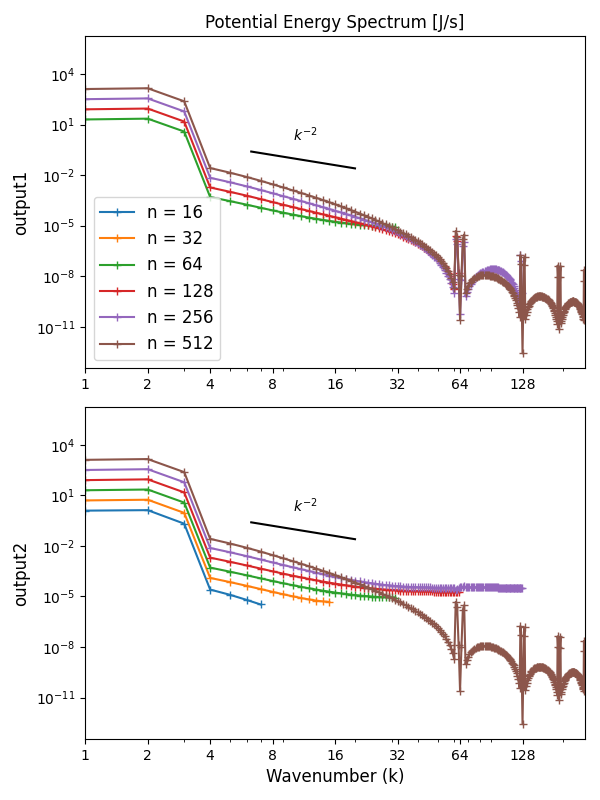
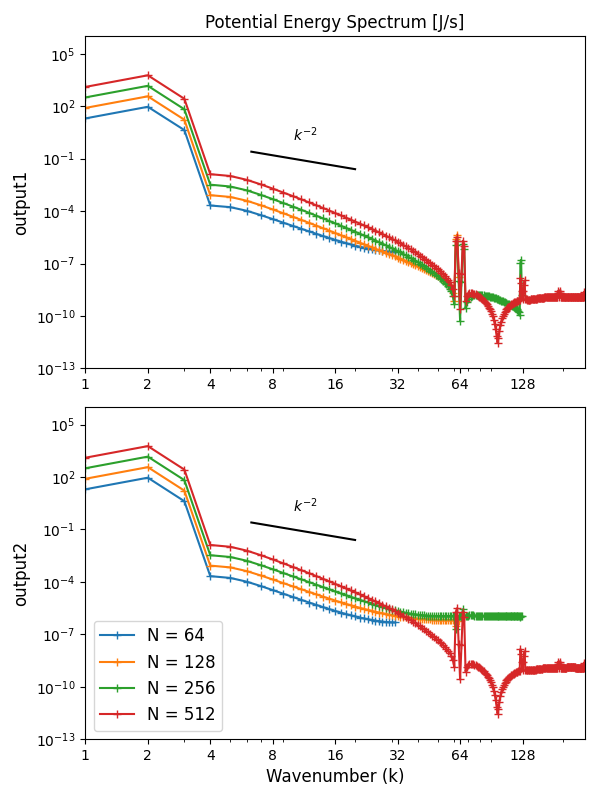
JpGU slide ver.1

diff --git a/Stochastic/plot_tool/spectr.py b/Stochastic/plot_tool/spectr.py
@@ -2,7 +2,9 @@ import numpy as np
 import matplotlib.pyplot as plt
 import glob
 
-files = sorted(glob.glob('../output/fmgz*.dat'))
+dilectname = '../out_stoc_n3/'
+
+files = sorted(glob.glob(dilectname+'fmgz*.dat'))
 
 data = np.loadtxt(files[0])
 Nt = len(files)
@@ -22,7 +24,8 @@ g = 9.81   # 重力加速度 [m/s^2]
 
 fig, (ax1, ax2) = plt.subplots(2, 1,figsize=(6,8))
 
-for i in range(levels):
+# for i in range(levels):
+for i in [2,3,4,5]:
 	h = np.mean(z[:,:,i],axis=0)
 	# print(h.shape)
 
@@ -39,7 +42,7 @@ for i in range(levels):
 # print(k[:Nx//2])
 
 # スペクトルをプロット
-	ax1.loglog(k[:N//2], energy_spectrum[:N//2], '-+', label="n = {}".format(Nx//2**(levels-i-1)))
+	ax1.loglog(k[:N//2], energy_spectrum[:N//2], '-+')
 
 x = np.logspace(0.8,1.3, 10)
 y = 1e1*x**-2
@@ -50,9 +53,10 @@ ax2.set_xlim(1,256)
 ax1.set_xticks(x_ticks, x_ticks)
 ax1.text(10,1,"$k^{-2}$")
 ax1.set_xlim(1,256)
+ax1.set_ylim(1e-13,1e6)
 
 
-files = sorted(glob.glob('../output/z*.dat'))
+files = sorted(glob.glob(dilectname+'z*.dat'))
 data = np.loadtxt(files[0])
 Nt = len(files)
 Nx = len(data[0])
@@ -66,7 +70,8 @@ for i, file in enumerate(files):
 		z[i,:,level] = data[level]
 
 
-for i in range(levels):
+# for i in range(levels):
+for i in [2,3,4,5]:
 	h = np.mean(z[:,:,i],axis=0)
 	# print(h.shape)
 
@@ -83,16 +88,17 @@ for i in range(levels):
 # print(k[:Nx//2])
 
 # スペクトルをプロット
-	ax2.loglog(k[:N//2], energy_spectrum[:N//2], '-+', label="n = {}".format(Nx//2**(levels-i-1)))
+	ax2.loglog(k[:N//2], energy_spectrum[:N//2], '-+', label="N = {}".format(Nx//2**(levels-i-1)))
 
 ax2.loglog(x, y,'k')
 ax2.text(10,1,"$k^{-2}$")
 
-ax1.legend(fontsize=12,loc='lower left')
+ax2.legend(fontsize=12,loc='lower left')
 ax2.set_xticks(x_ticks, x_ticks)
 ax2.set_xlabel('Wavenumber (k)',fontsize=12)
 ax1.set_ylabel('output1',fontsize=12)
 ax2.set_ylabel('output2',fontsize=12)
+ax2.set_ylim(1e-13,1e6)
 
 ax1.set_title('Potential Energy Spectrum [J/s]')
 

diff --git a/Stochastic/plot_tool/plot.py b/Stochastic/plot_tool/plot.py
@@ -3,7 +3,7 @@ import matplotlib.pyplot as plt
 from matplotlib.animation import FuncAnimation
 import glob
 
-files = sorted(glob.glob('../out_stoc_n3/fmgz*.dat'))
+files = sorted(glob.glob('../output/z*.dat'))
 
 data = np.loadtxt(files[0])
 Nt = len(files)
@@ -17,20 +17,28 @@ for i, file in enumerate(files):
 	for level in range(levels):
 		z[i,:,level] = data[level]
 
-i = 5
-z = z[:,:Nx//2**(levels-i-1),i]
-N = len(z[0])
-x = np.linspace(0,1e7,N)
+# i = 5
 
 fig,ax = plt.subplots()
-line, = ax.plot(x,z[0])
-title = ax.set_title("num = {}".format(0))
+# line, = ax.plot(x,z[0])
+for i in range(levels):
+    eta = z[:,:Nx//2**(levels-i-1),i]
+    N = len(eta[0])
+    x = np.linspace(0,10000,N)
+    ax.plot(x, eta[0], label="N = {}".format(Nx//2**(levels-i-1)))
+title = ax.set_title("num = {}".format(0),fontsize=14)
 ax.set_ylim(-5,5)
+ax.set_xlabel("x [km]")
+ax.set_ylabel("$\eta$ [m]")
+ax.legend()
+
+waves = ax.get_lines()
 
 def update(frame):
-    line.set_ydata(z[frame])
-    title.set_text("day = {:2f}".format(frame*0.01))
-    return line,
+    for i, wave in enumerate(waves):
+        wave.set_ydata(z[frame,:Nx//2**(levels-i-1),i])
+    title.set_text("day = {:.2f}".format(frame*0.01))
+    return waves
 
 ani = FuncAnimation(fig, update, frames=range(Nt), interval=1, blit=True)
 
